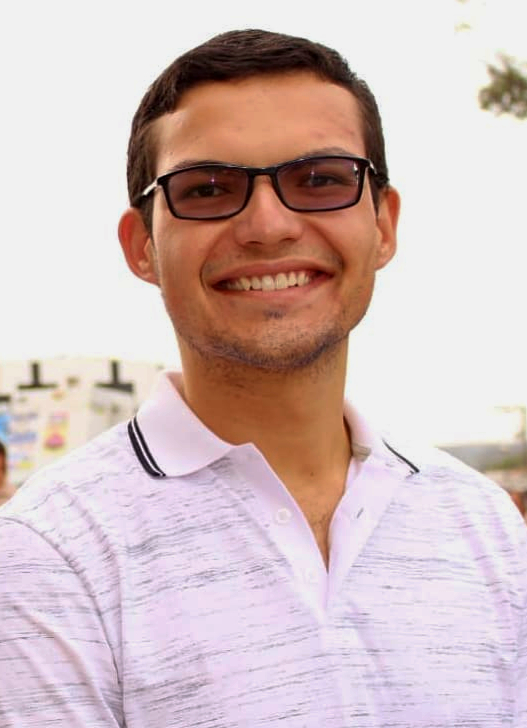
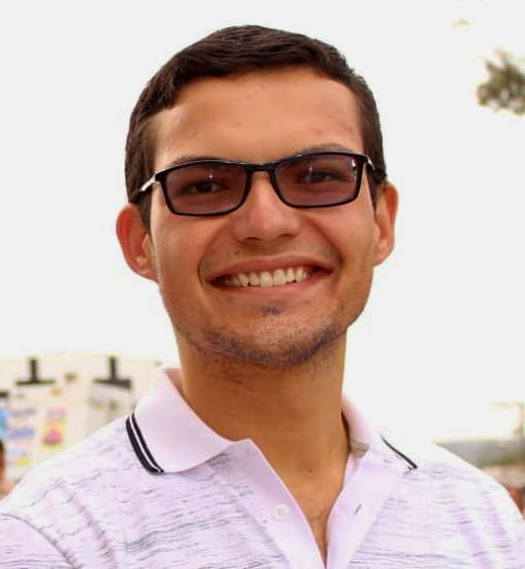
envio de img

diff --git a/pages/sobre.js b/pages/sobre.js
@@ -72,7 +72,7 @@ export default class CampaignIndex extends Component {
                     </p>
                     <Item.Group>
                         <Item>
-                        <Item.Image size='tiny' src='/images/wireframe/image.png' />
+                        <Item.Image size='tiny' src='https://github.com/AndersonMelo123/BlockMoodle/blob/master/assets/Anderson.png?raw=true' />
 
                         <Item.Content>
                             <Item.Header as='a'>Anderson Melo</Item.Header>
@@ -85,7 +85,7 @@ export default class CampaignIndex extends Component {
                         </Item>
 
                         <Item>
-                        <Item.Image size='tiny' src='/images/wireframe/image.png' />
+                        <Item.Image size='tiny' src='https://github.com/AndersonMelo123/BlockMoodle/blob/master/assets/Fernando.png?raw=true' />
 
                         <Item.Content>
                             <Item.Header as='a'>Prof. Fernando Aires</Item.Header>
